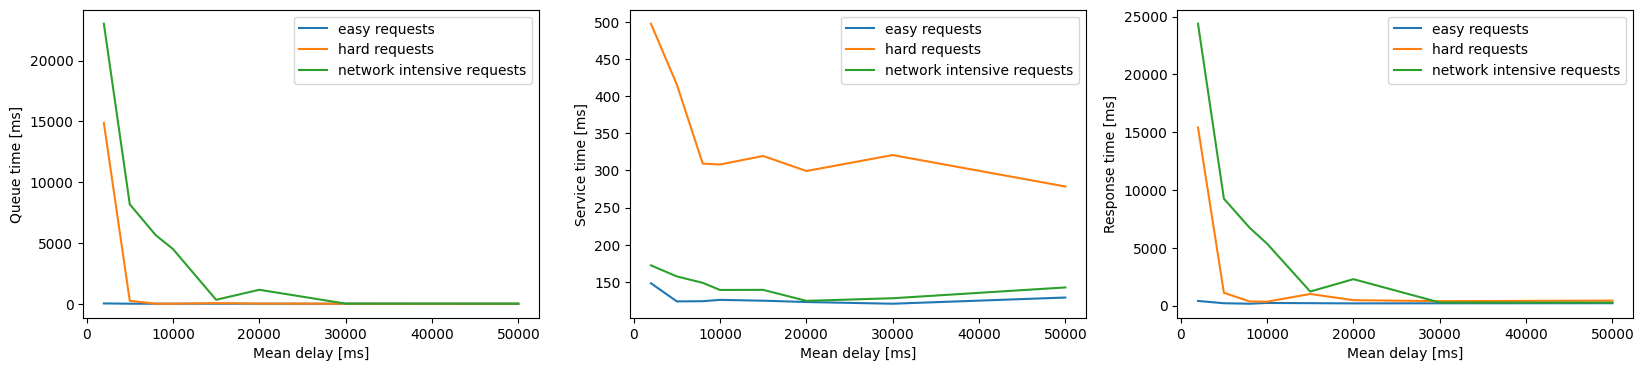
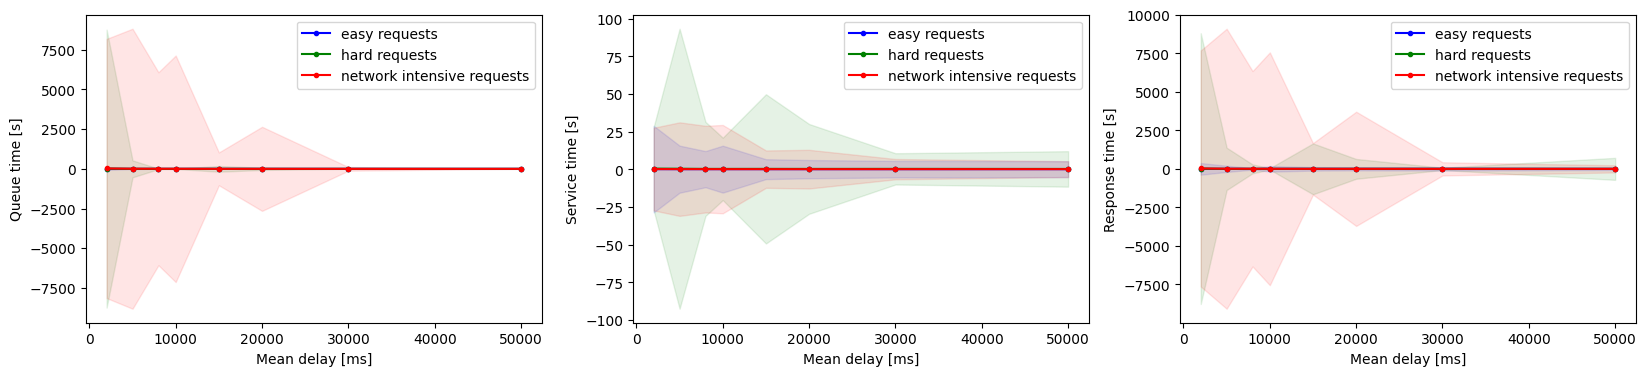
plot modifs

diff --git a/measures/plots.py b/measures/plots.py
@@ -12,6 +12,7 @@ plots = ["Number of clients [-]", "Mean delay [ms]", "Number of threads [-]"]
 input_values = [variable_inputs[np.logical_and(variable_inputs[:,1] == delays[0]   , variable_inputs[:,2] == n_threads[0])],
                 variable_inputs[np.logical_and(variable_inputs[:,0] == n_clients[0], variable_inputs[:,2] == n_threads[0])],
                 variable_inputs[np.logical_and(variable_inputs[:,0] == n_clients[0], variable_inputs[:,1] == delays[0]   )]]
+plot_colors = ['b', 'g', 'r']
 
 # plot the different plots (n_clients, delay and threads)
 for j, plot, input_variables in zip(range(len(plots)), plots, input_values):
@@ -23,18 +24,20 @@ for j, plot, input_variables in zip(range(len(plots)), plots, input_values):
         plt.xlabel(plot)
         plt.ylabel(f"{plot_type} time [ms]")
         # iterate over requests types (easy, netw intensive, hard)
-        for requests_type in input_files:
+        for requests_type, c in zip(input_files, plot_colors):
             # iterate over different datapoints
             avg = np.array([])
+            std = np.array([])
             for n, d, t in input_variables:
                 # read the corresponding file
                 with open(file(requests_type, n, d, t), 'r') as f:
                     # add averages to listaverage
-                    lines = f.readlines()
-                    avg = np.append(avg, sum( map(int, lines) ) / len(lines) )
-                    # TODO : add standard deviation and stuff
+                    lines = np.array(list(map(int, f.readlines())))
+                    avg = np.append(avg, np.average(lines))
+                    std = np.append(std, np.std(lines))
             # get argsort
             idx = np.argsort(input_variables[:, j])
-            plt.plot(input_variables[idx, j], avg[idx], label=requests_type.replace('-', ' '))
+            plt.plot(input_variables[idx, j], avg[idx], label=requests_type.replace('-', ' '), color=c, marker='.')
+            plt.fill_between(input_variables[idx, j], avg[idx]-std[idx], avg[idx]+std[idx], color=c, alpha=0.1)
             plt.legend()
     plt.savefig(f"{plt_path}{plot}", bbox_inches='tight')
